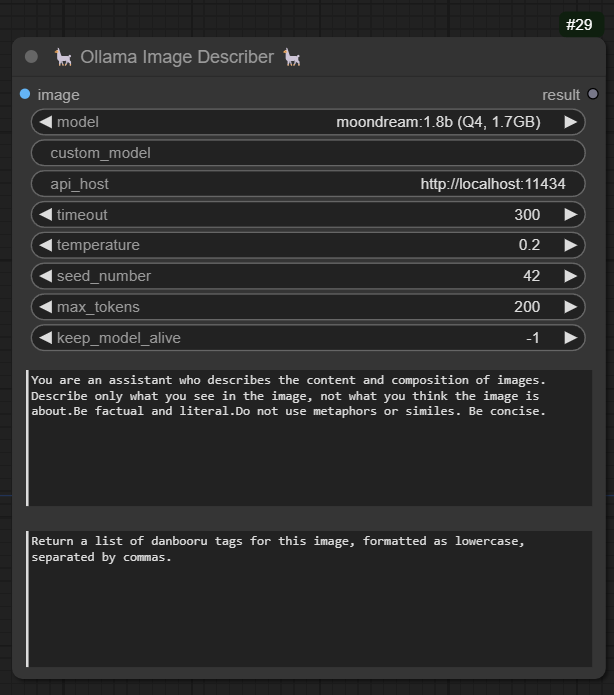
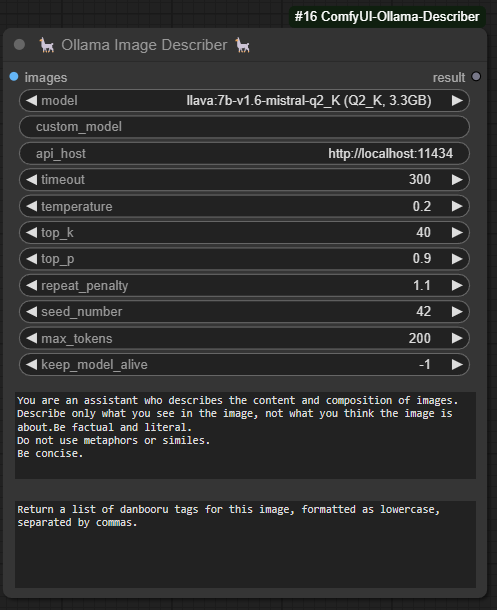
Update README

diff --git a/README.md b/README.md
@@ -43,11 +43,15 @@ Add the node via `Ollama` -> `Ollama Image Describer`
 
 ![alt text](image-2.png)
 
+- **images**: Image that will be used to extract/process information, some models accept more than one image, such as llava models, it is up to you to explore which models can use more than one image.
 - **model**: Select one of the models, 7b, 13b or 34b, the greater the number of parameters in the selected model the longer it will take to execute the prompt and return the response, use according to the capabilities of your hardware. For most users, I recommend using the 7b/13b model as it offers a good balance between performance and resource requirements.
 - **custom_model**: it is possible to use a model that is not in the model list, to do this you need to consult the models available on the [ollama website](https://ollama.com/library) and get the name of the model (Here it is important to use a model that supports vision, because otherwise the image used will not have any impact) and put it in this field for example: moondream:1.8b 
 - **api_host**: With this parameter you can specify the address of the API used to communicate with the model, you can use it locally (localhost..) or remotely. Remembering that to run ollama locally, it must be running on your machine.
 - **timeout**: With this parameter you can specify the maximum response time, if the time exceeds this value the request will be cancelled.
 - **temperature**: The higher this value, or closer to 1, the more creative/random the answer will be. In other words, the model may not follow the instructions added in your prompt or even add false information, the LLaVa model provides good answers with temperatures from 0.2 and below.
+- **top_k**: Reduces the probability of generating nonsense. A higher value (e.g. 100) will give more diverse answers, while a lower value (e.g. 10) will be more conservative. (Default: 40)	
+- **top_p**: Works together with top-k. A higher value (e.g., 0.95) will lead to more diverse text, while a lower value (e.g., 0.5) will generate more focused and conservative text. (Default: 0.9)
+- **repeat_penalty**: Sets how strongly to penalize repetitions. A higher value (e.g., 1.5) will penalize repetitions more strongly, while a lower value (e.g., 0.9) will be more lenient. (Default: 1.1)	
 - **seed_number**: Sets the random number seed to use for generation. Setting this to a specific number will cause the template to generate the same text for the same prompt. The default value is 0, to set a random seed set -1.
 - **max_tokens**: Maximum length of response, in tokens. A token is approximately half a word.
 - **keep_model_alive**: This parameter is used to define how long the model will remain in memory after generation
@@ -58,6 +62,8 @@ Add the node via `Ollama` -> `Ollama Image Describer`
     Note: the last node executed is the one that will set the final value for keep_model_alive. Example if you have 3 nodes with different keep_model_alive, the last one executed is the value that will persist.
 - **prompt**: Text provided to the model containing a question or instruction.
 - **system_context**: This parameter is used to provide a specific context to the model, directly influencing the responses generated by the model. This context is crucial to ensuring that answers are relevant and aligned with the context of the query, even when there is no specific “correct” answer available. (optional)
+
+More information about the parameters can be seen at this [link](https://github.com/ollama/ollama/blob/717f7229eb4f9220d4070aae617923950643d327/docs/modelfile.md#valid-parameters-and-values).
 
 ### Ollama Text Describer
 
@@ -70,6 +76,9 @@ Add the node via `Ollama` -> `Ollama Text Describer`
 - **api_host**: With this parameter you can specify the address of the API used to communicate with the model, you can use it locally (localhost..) or remotely. Remembering that to run ollama locally, it must be running on your machine.
 - **timeout**: With this parameter you can specify the maximum response time, if the time exceeds this value the request will be cancelled.
 - **temperature**: The higher this value, or closer to 1, the more creative/random the answer will be. In other words, the model may not follow the instructions added in your prompt or even add false information, the LLaVa model provides good answers with temperatures from 0.2 and below.
+- **top_k**: Reduces the probability of generating nonsense. A higher value (e.g. 100) will give more diverse answers, while a lower value (e.g. 10) will be more conservative. (Default: 40)	
+- **top_p**: Works together with top-k. A higher value (e.g., 0.95) will lead to more diverse text, while a lower value (e.g., 0.5) will generate more focused and conservative text. (Default: 0.9)
+- **repeat_penalty**: Sets how strongly to penalize repetitions. A higher value (e.g., 1.5) will penalize repetitions more strongly, while a lower value (e.g., 0.9) will be more lenient. (Default: 1.1)	
 - **seed_number**: Sets the random number seed to use for generation. Setting this to a specific number will cause the template to generate the same text for the same prompt. The default value is 0, to set a random seed set -1.
 - **max_tokens**: Maximum length of response, in tokens. A token is approximately half a word.
 - **keep_model_alive**: This parameter is used to define how long the model will remain in memory after generation
@@ -80,6 +89,8 @@ Add the node via `Ollama` -> `Ollama Text Describer`
     Note: the last node executed is the one that will set the final value for keep_model_alive. Example if you have 3 nodes with different keep_model_alive, the last one executed is the value that will persist.
 - **prompt**: Text provided to the model containing a question or instruction.
 - **system_context**: This parameter is used to provide a specific context to the model, directly influencing the responses generated by the model. This context is crucial to ensuring that answers are relevant and aligned with the context of the query, even when there is no specific “correct” answer available. (optional)
+
+More information about the parameters can be seen at this [link](https://github.com/ollama/ollama/blob/717f7229eb4f9220d4070aae61792395064
 
 ### Text Transformer
 
